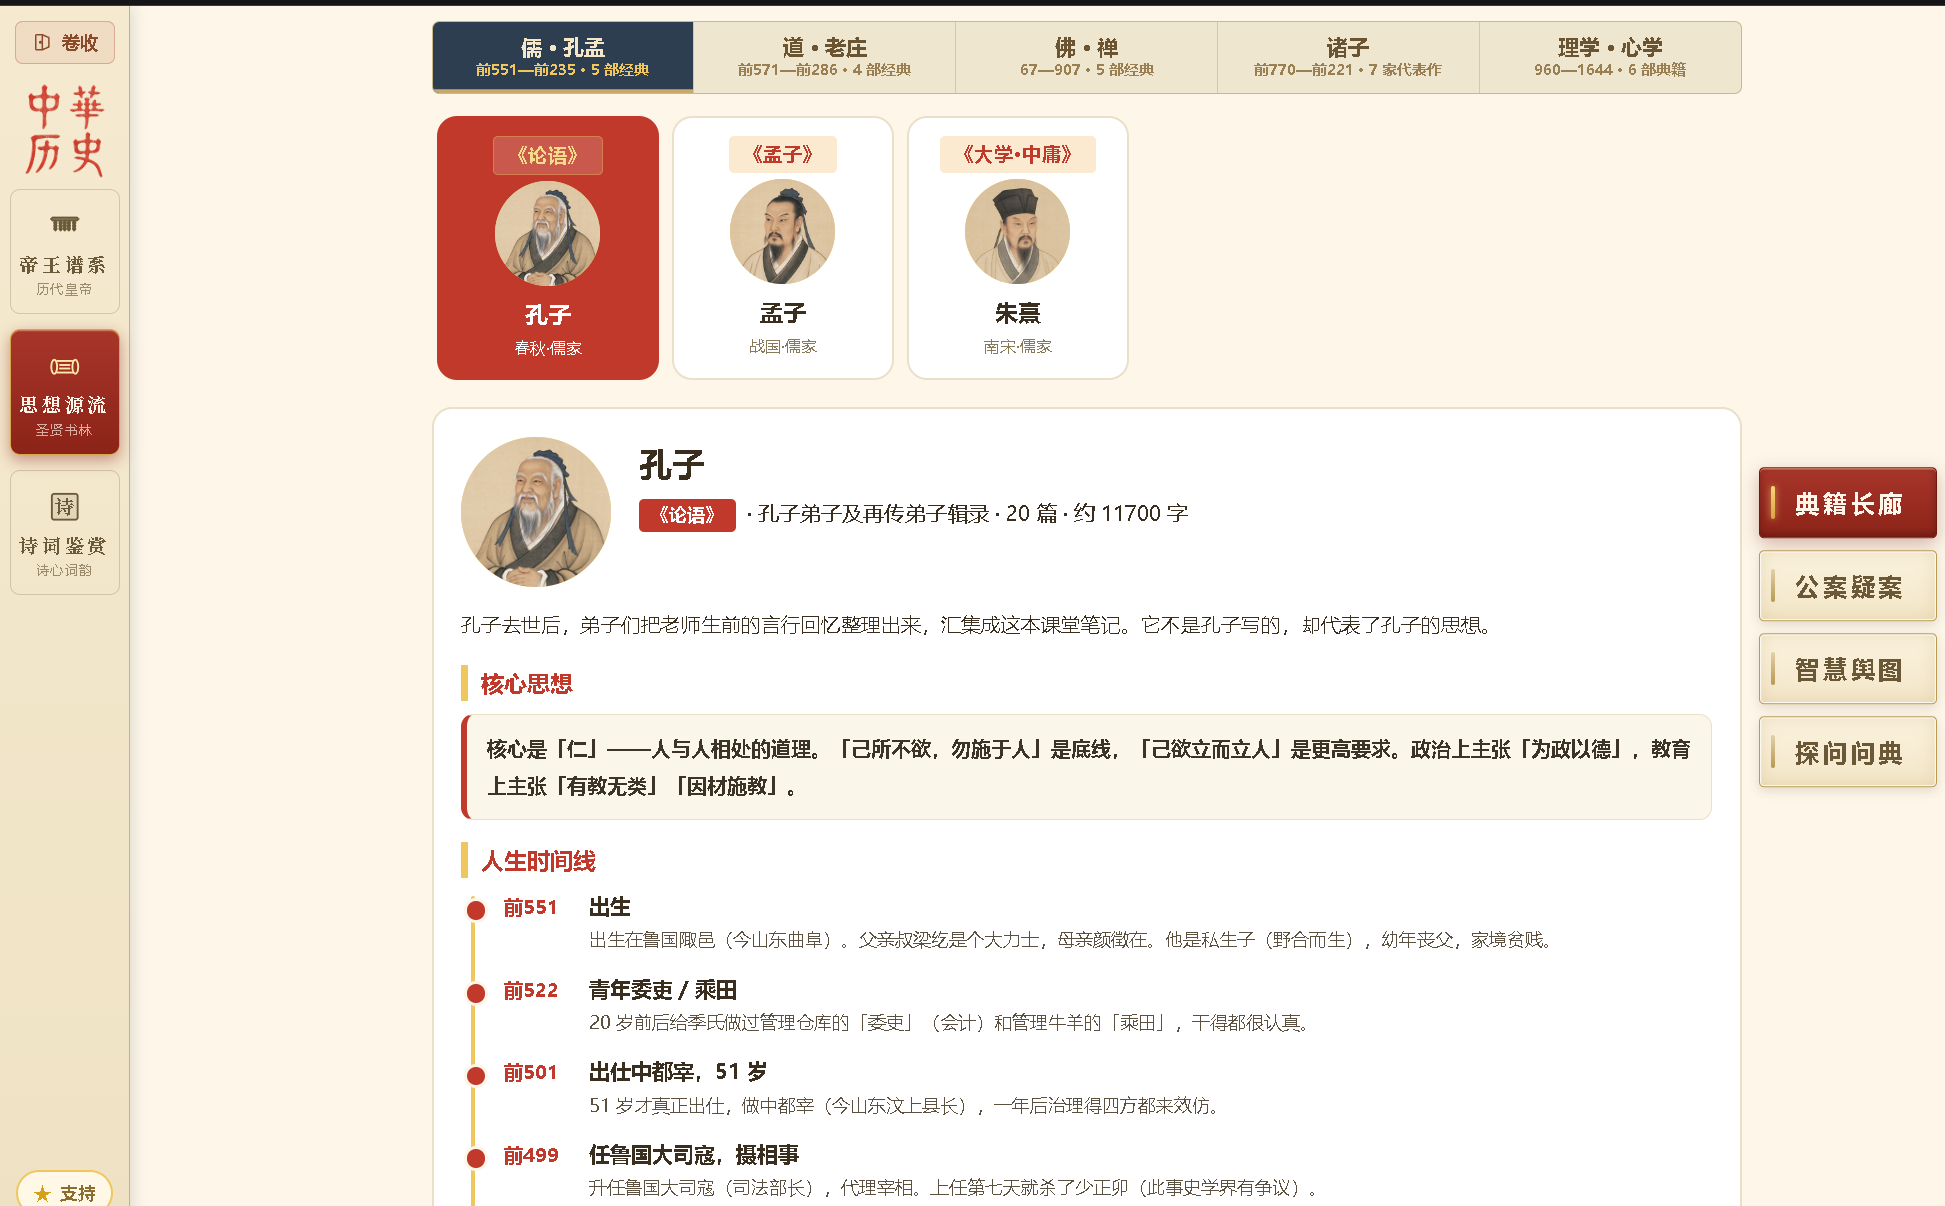
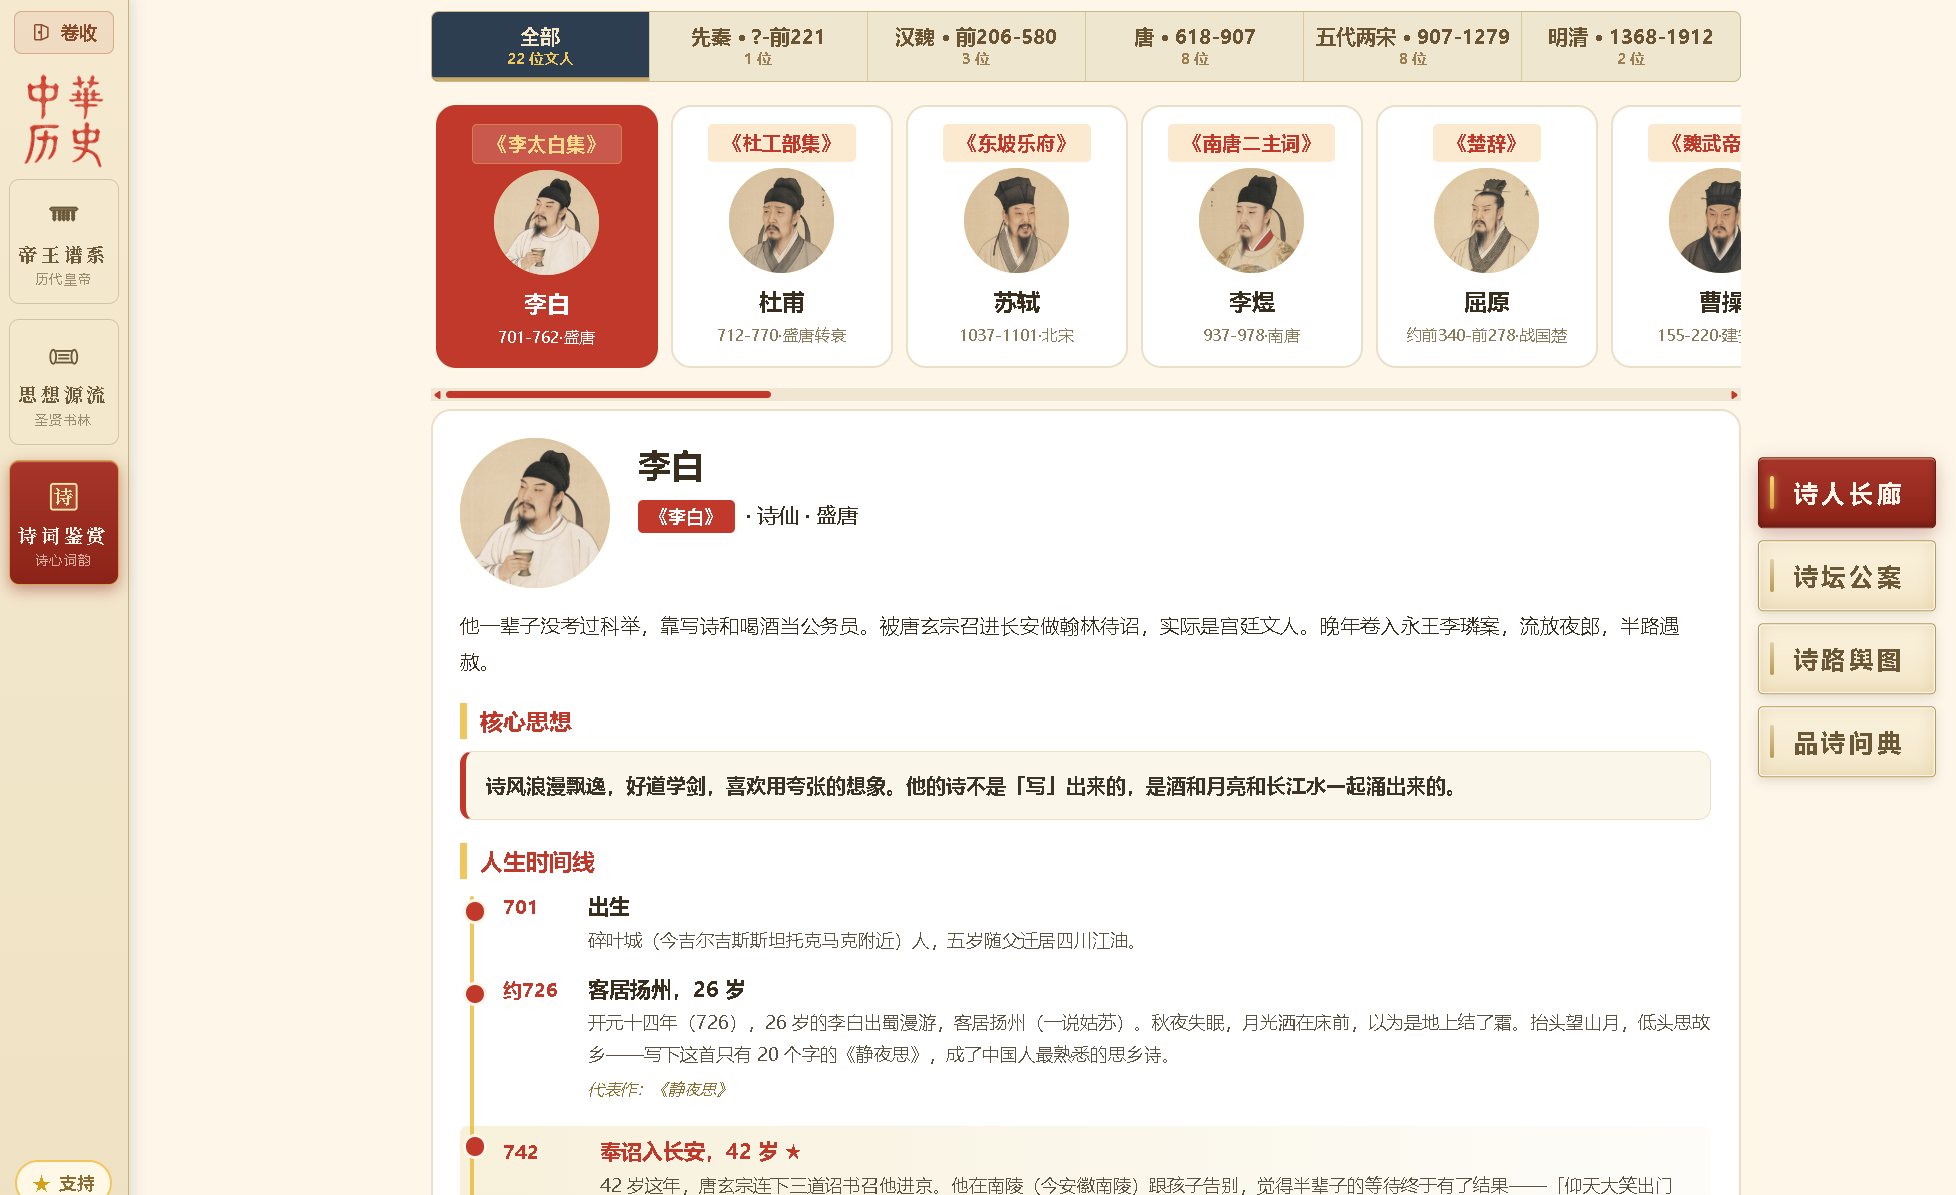
docs: 同步本地README最新修改与模块截图

diff --git a/README.md b/README.md
@@ -1,118 +1,167 @@
-# 🏮 中华历史图谱 · Chinese History Atlas
+# 🏮 中华历史图谱・Chinese History Atlas
 
-> 中文 | [English](README_EN.md)
+> 中文 |
+> [English](README_EN.md)
 
-一个把 **帝王谱系 · 思想源流 · 诗词鉴赏** 三大板块串在一起的中国文化学习站。
+一个把 **帝王谱系・思想源流・诗词鉴赏** 三大板块串在一起的中国文化学习站。
 
-不是教材复读机，也不是百科网站——它做的是一件事：**把散落的知识点连成线**。皇帝做了什么、思想家怎么看、诗人在那个节点写下了什么，三条线同时展开，你自己拼出一个时代的完整轮廓。
+不是教材复读机，也不是百科网站 —— 它做的是一件事：**把散落的知识点连成线**。皇帝做了什么、思想家怎么看、诗人在那个节点写下了什么，三条线同时展开，你自己拼出一个时代的完整轮廓。
 
-适合历史爱好者系统梳理朝代脉络、传统文化入门者建立思想坐标，也适合学生从"背年代"转向"理解因果"。
+适合历史爱好者系统梳理朝代脉络、传统文化入门者建立思想坐标，也适合学生从 "背年代" 转向 "理解因果"。
 
 **🌐 在线演示**
-- GitHub Pages：<https://zinging.github.io/chinese-history-atlas/web/>
-- Gitee Pages：<https://chen_ye_code.gitee.io/chinese-history-atlas/web/>
+
+
+
+* GitHub Pages：[https://zinging.github.io/chinese-history-atlas/web/](https://zinging.github.io/chinese-history-atlas/web/)
+
+* Gitee Pages：[https://chen\_ye\_code.gitee.io/chinese-history-atlas/web/](https://chen_ye_code.gitee.io/chinese-history-atlas/web/)
+
+
 
 ![纯静态](https://img.shields.io/badge/纯静态-零构建-brightgreen)
+
+
+
 ![Leaflet](https://img.shields.io/badge/地图-Leaflet_1.9.4-247bc1)
+
+
+
 ![三板块](https://img.shields.io/badge/板块-3个-c0392b)
+
+
+
 ![数据](https://img.shields.io/badge/数据-77帝_6派经典_22位诗人-e8c86a)
+
+
+
 ![License: MIT](https://img.shields.io/badge/License-MIT-blue.svg)
 
----
 
-## 🗺 三大板块
+
+***
+
+## 🗺 三大板块——帝王谱系、思想源流、诗词鉴赏
 
 ### 🏮 帝王谱系
 
-从隋到清七朝 77 位皇帝，横向卡片流。点开看生平时间线、人物关系图、冷知识与争议话题。地图叠加各朝疆域轮廓、古地名点、行军与航海路线动画。悬案疑案逐案拆解——从"名称怎么来的"到"到底谁该负责"，再到开放讨论。探案问史让你拿带出处的线索自己下判断。
+从隋到清七朝 77 位皇帝，横向卡片流。点开看生平时间线、人物关系图、冷知识与争议话题。地图叠加各朝疆域轮廓、古地名点、行军与航海路线动画。悬案疑案逐案拆解 —— 从 "名称怎么来的" 到 "到底谁该负责"，再到开放讨论。探案问史让你拿带出处的线索自己下判断。
+
+
 
 ![帝王谱系](docs/demo/module-emperors.png)
 
 ### 📚 思想源流
 
-儒（孔孟）、道（老庄）、佛（禅宗）、诸子（兵法/法家/墨家）、理学心学（朱熹/王阳明）——中国人的底层操作系统，从先秦一路到明清。每个流派选经典文本，**结合作者当时的处境读原文**，而不是脱离时代死记。再用辩证选择题训练思辨：一道题同时考"怎么评价"和"因果链是什么"。
+儒（孔孟）、道（老庄）、佛（禅宗）、诸子（兵法 / 法家 / 墨家）、理学心学（朱熹 / 王阳明）—— 中国人的底层操作系统，从先秦一路到明清。每个流派选经典文本，**结合作者当时的处境读原文**，而不是脱离时代死记。再用辩证选择题训练思辨：一道题同时考 "怎么评价" 和 "因果链是什么"。
+
+
 
 ![思想源流](docs/demo/module-thought.png)
 
 ### 🎋 诗词鉴赏
 
-从屈原到纳兰性德，按朝代编排 22 位文人。不只是背诗——**看诗人一生行迹地图，读一首诗背后是什么处境、什么心情、什么公案**。为什么李白在江陵写"轻舟已过万重山"？因为他刚接到大赦令。诗路舆图标出他们去过哪里、在哪里写下名句。
+从屈原到纳兰性德，按朝代编排 22 位文人。不只是背诗 ——**看诗人一生行迹地图，读一首诗背后是什么处境、什么心情、什么公案**。为什么李白在江陵写 "轻舟已过万重山"？因为他刚接到大赦令。诗路舆图标出他们去过哪里、在哪里写下名句。
+
+
 
 ![诗词鉴赏](docs/demo/module-poetry.png)
 
----
+
+
+***
 
 ## ✨ 这个项目有什么不同
 
 ### 三条线并行，不是三个孤立页面
 
-皇帝在朝堂上做的决策、思想家在书斋里的回应、诗人在流放路上写下的句子——**同一个时代的三个侧面**。传统历史网站只讲帝王，这个站让你同时看到权力、思想和审美怎么互相影响。
+皇帝在朝堂上做的决策、思想家在书斋里的回应、诗人在流放路上写下的句子 ——**同一个时代的三个侧面**。传统历史网站只讲帝王，这个站让你同时看到权力、思想和审美怎么互相影响。
 
 ### 历史落地在地图上，不是文字里
 
-Leaflet 可缩放底图叠各朝疆域轮廓与古地名点。靖难之役的南下路线、郑和七下西洋、清军入关——按时间分段动画播放，不是静态图。点任何古地名看今址对照（"睦州"= 今浙江建德一带）。
+Leaflet 可缩放底图叠各朝疆域轮廓与古地名点。靖难之役的南下路线、郑和七下西洋、清军入关 —— 按时间分段动画播放，不是静态图。点任何古地名看今址对照（"睦州"= 今浙江建德一带）。
 
 ### 案件式深读，不是百科式罗列
 
-著名疑案拆成八段：名称由来 → 背景 → 人物 → 经过 → 结果 → 影响 → 开放讨论 → 史料出处。给你完整的推理链条，而不是"某某年发生了某事"的一句话。
+著名疑案拆成八段：名称由来 → 背景 → 人物 → 经过 → 结果 → 影响 → 开放讨论 → 史料出处。给你完整的推理链条，而不是 "某某年发生了某事" 的一句话。
 
 ### 380 道辩证题，不是是非题
 
 内置 **77 位皇帝共 380 道选择题**，分两类：
 
-- **论证判断**："你怎么评价这个人的某政策？"
-- **因果链**："这件事为什么发生？直接原因是什么？"
+
+
+* **论证判断**："你怎么评价这个人的某政策？"
+
+* **因果链**："这件事为什么发生？直接原因是什么？"
 
 提交即批改附解析。约四分之一为开放题，可接 AI 老师点评。
 
 ### 线索可溯源，演义和正史分开
 
-时间线与侦探线索标注《旧唐书》《宋史》《明史》等出处。演义/传说单独标注"小说演绎，正史不载"，不让你把《三国演义》当正史读。
+时间线与侦探线索标注《旧唐书》《宋史》《明史》等出处。演义 / 传说单独标注 "小说演绎，正史不载"，不让你把《三国演义》当正史读。
 
 ### 零依赖，打开就能用
 
-纯原生 HTML/CSS/JS，无构建、无框架、无后端。`data/` 全是可读 JSON——你可以直接打开看、改、加。不需要 npm install，不需要数据库。
+纯原生 HTML/CSS/JS，无构建、无框架、无后端。`data/` 全是可读 JSON—— 你可以直接打开看、改、加。不需要 npm install，不需要数据库。
 
 ### 可接 AI 私教，数据不出本机
 
 内置 OpenAI 兼容接口（DeepSeek / OpenAI 等），配置只存本机 `web/llm-config.json`（已 gitignore）。你的提问和回答不上传任何服务器。
 
----
+
+
+***
 
 ## 🧭 可以怎么学
 
-| 方向 | 你可以做什么 |
-| --- | --- |
-| 建立朝代框架 | 通读七朝皇帝顺序，先有「唐→五代→宋」的大坐标 |
-| 理解关键人物 | 点进任一皇帝，看人物关系图（君臣、后妃、对手） |
-| 看懂重大事件 | 在地图上按年号筛选，看一场战役从哪开始、打到哪 |
-| 梳理思想脉络 | 从孔孟到朱王，看儒释道怎么互相影响、怎么流变 |
-| 结合处境读诗 | 看诗人一生行迹，再读他在那个节点写下的句子 |
-| 训练思辨 | 辩证选择题：一道题同时考「怎么评价」和「因果链」 |
-| 古今地名对照 | 点古地名看今址（如「睦州」= 今浙江建德一带） |
 
----
+
+| 方向     | 你可以做什么                   |
+| ------ | ------------------------ |
+| 建立朝代框架 | 通读七朝皇帝顺序，先有「唐→五代→宋」的大坐标  |
+| 理解关键人物 | 点进任一皇帝，看人物关系图（君臣、后妃、对手）  |
+| 看懂重大事件 | 在地图上按年号筛选，看一场战役从哪开始、打到哪  |
+| 梳理思想脉络 | 从孔孟到朱王，看儒释道怎么互相影响、怎么流变   |
+| 结合处境读诗 | 看诗人一生行迹，再读他在那个节点写下的句子    |
+| 训练思辨   | 辩证选择题：一道题同时考「怎么评价」和「因果链」 |
+| 古今地名对照 | 点古地名看今址（如「睦州」= 今浙江建德一带）  |
+
+
+
+***
 
 ## 🚀 快速开始
 
 环境要求：**Node.js 18+**（自带 `fetch`，无需 `npm install`）。
 
-```bash
+
+
+```
 git clone git@gitee.com:chen_ye_code/chinese-history-atlas.git
 cd chinese-history-atlas
 node web/serve.mjs
 # 浏览器打开 http://127.0.0.1:5173/web/
 ```
 
-> 端口被占用就换：`node web/serve.mjs 8080`。
->
-> 为什么必须起本地服务器？前端通过 `fetch` 读 `data/*.json`，直接双击 HTML 会被浏览器 CORS 拦截、页面空白。
+> 端口被占用就换：
+> `node web/serve.mjs 8080`
+> 。
+> 为什么必须起本地服务器？前端通过
+> `fetch`
+> 读
+> `data/*.json`
+> ，直接双击 HTML 会被浏览器 CORS 拦截、页面空白。
 
-**可选 · 接入 AI 老师**：探案问史页底部「🤖 AI 老师配置」→ 填 OpenAI 兼容接口 + Key + 模型（点 ⬇ 自动拉取列表）。配置只存本机 `web/llm-config.json`（已 gitignore），仓库附了带注释的 `web/llm-config.json.template`，复制改名即可填写。
+**可选・接入 AI 老师**：探案问史页底部「🤖 AI 老师配置」→ 填 OpenAI 兼容接口 + Key + 模型（点 ⬇ 自动拉取列表）。配置只存本机 `web/llm-config.json`（已 gitignore），仓库附了带注释的 `web/llm-config.json.template`，复制改名即可填写。
 
----
+
+
+***
 
 ## 🏗 项目结构
+
+
 
 ```
 chinese-history-atlas/
@@ -137,31 +186,44 @@ chinese-history-atlas/
 └── docs/                  # 架构 / 内容规范 / 演示动图
 ```
 
----
+
+
+***
 
 ## 📊 数据规模
 
-| 板块 | 内容 |
-| --- | --- |
+
+
+| 板块   | 内容                           |
+| ---- | ---------------------------- |
 | 帝王谱系 | 7 朝 77 位皇帝、380 道史论题、545 条时间线 |
-| 思想源流 | 儒道佛诸子理学心学 6 大流派、27 部经典 |
-| 诗词鉴赏 | 22 位文人、按朝代编排、诗路行迹地图 |
+| 思想源流 | 儒道佛诸子理学心学 6 大流派、27 部经典       |
+| 诗词鉴赏 | 22 位文人、按朝代编排、诗路行迹地图          |
 
 疆域据谭其骧《中国历史地图集》手绘简化示意；画像为 AI 生成工笔风格。
 
----
+
+
+***
 
 ## 📖 内容规范
 
-- **史实优先**：只讲有史料依据的内容；拿不准明说「没有确切记载」；演义/传说标注「小说演绎，正史不载」。
-- **通俗表达**：短句口语、专有名词首现时括号解释（如「幽云十六州（今北京、天津及山西、河北北部一带）」）。
-- **学习者当导演**：开放问题没有标准答案，先给思考空间再补史实；选择题的正确项打散位置，避免靠位置猜答案。
-- **中立立场**：不站队、不美化，争议话题呈现多方观点后让学习者自己判断。
 
----
+
+* **史实优先**：只讲有史料依据的内容；拿不准明说「没有确切记载」；演义 / 传说标注「小说演绎，正史不载」。
+
+* **通俗表达**：短句口语、专有名词首现时括号解释（如「幽云十六州（今北京、天津及山西、河北北部一带）」）。
+
+* **学习者当导演**：开放问题没有标准答案，先给思考空间再补史实；选择题的正确项打散位置，避免靠位置猜答案。
+
+* **中立立场**：不站队、不美化，争议话题呈现多方观点后让学习者自己判断。
+
+
+
+***
 
 ## 📄 许可
 
-[MIT License](LICENSE) © chen_ye_code
+[MIT License](LICENSE) © chen\_ye\_code
 
 内容以正史为主要依据（《隋书》《旧唐书》《新唐书》《宋史》《元史》《明史》《清史稿》等）；疆域轮廓为手绘简化示意，非精确边界；画像为 AI 生成工笔风格示意，非历史真实画像；地图底图 © 各瓦片服务商，Leaflet © Leaflet Contributors。
